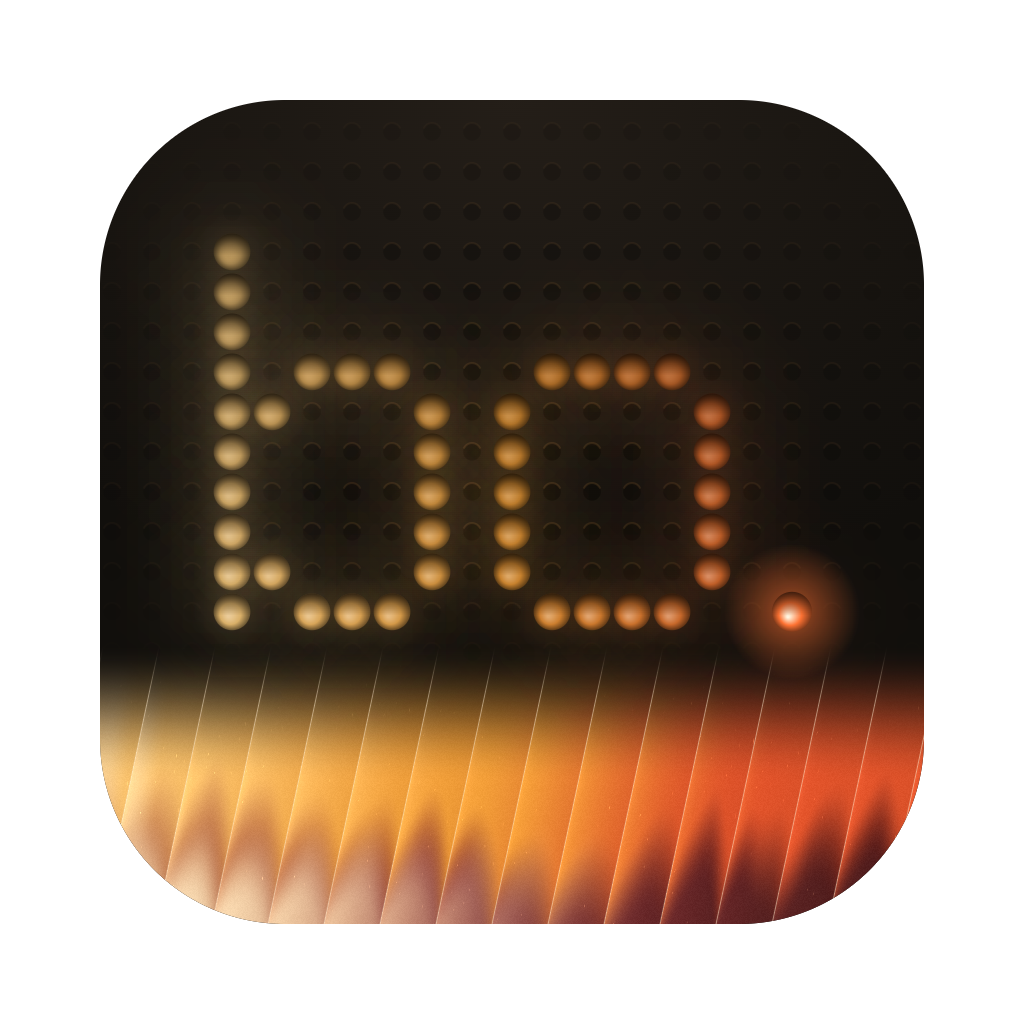
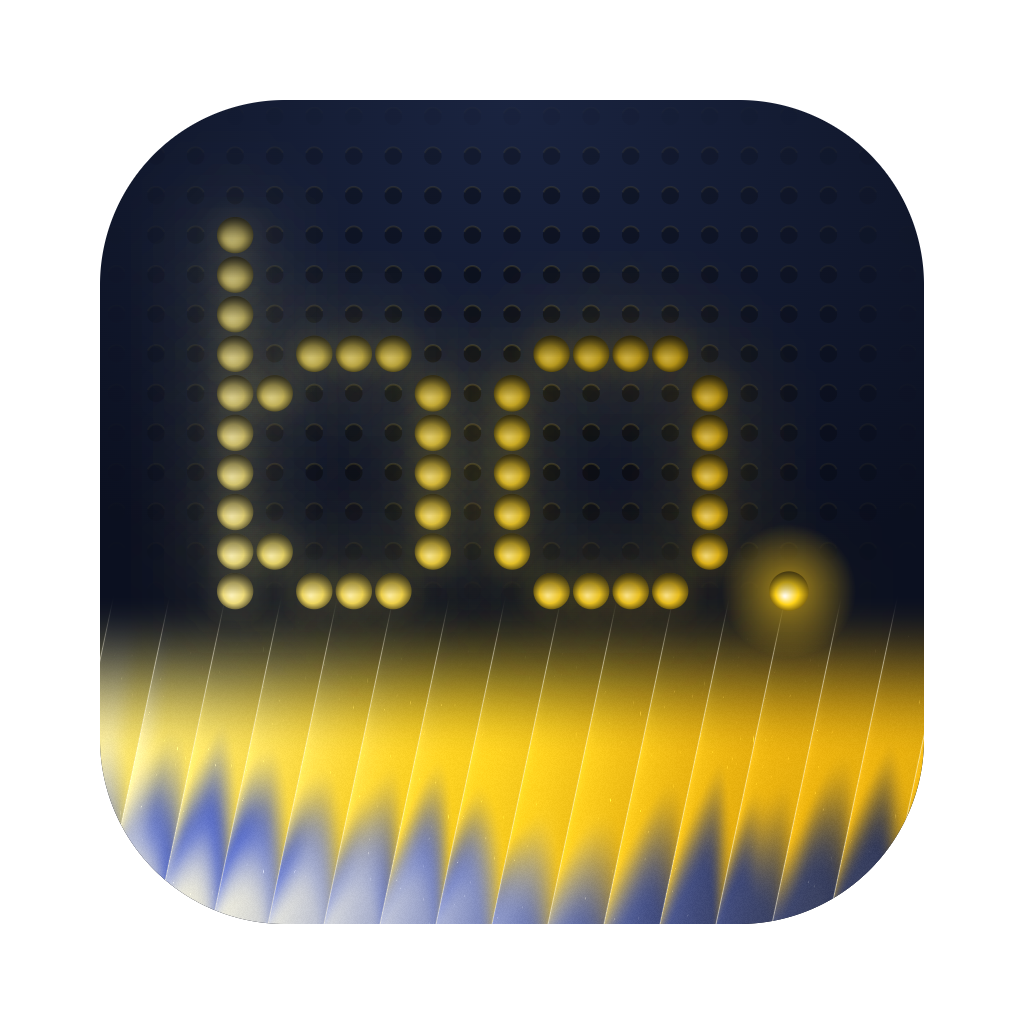
Brand: navy and yellow, dot wordmark
- Banner, social preview and icon re-rendered in midnight navy with
  yellow glass and cobalt depths; no red.
- README brand note updated.

diff --git a/README.md b/README.md
@@ -255,7 +255,7 @@ Receipts, not launch claims:
 
 ## Brand
 
-The identity lives in [`docs/brand/`](docs/brand): the banner, the social preview and the app icon. Obsidian and amber glass; the name is set in the same dots as the vault, and the only lit dot is the one on the i.
+The identity lives in [`docs/brand/`](docs/brand): the banner, the social preview and the app icon. Midnight navy and yellow glass. The name is drawn in the same dots as the vault, and the only live dot is the one on the i.
 
 ## License
 
